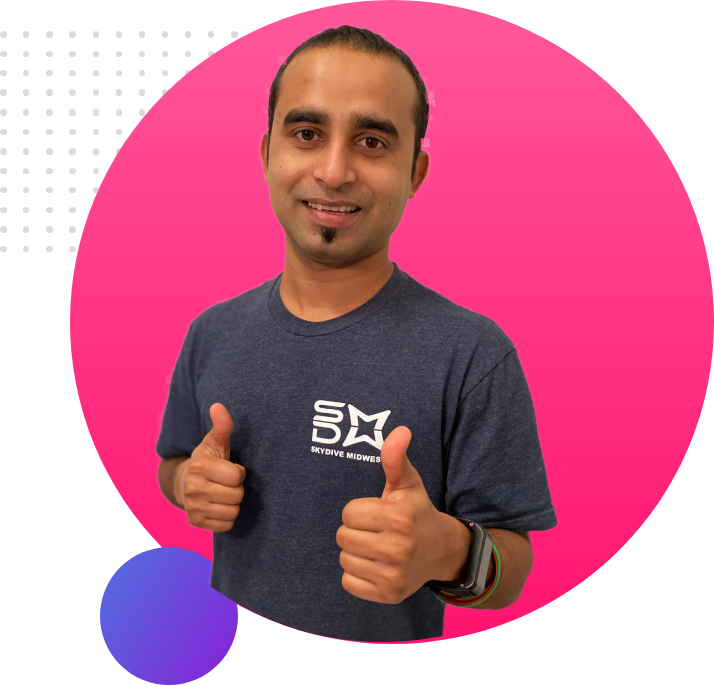
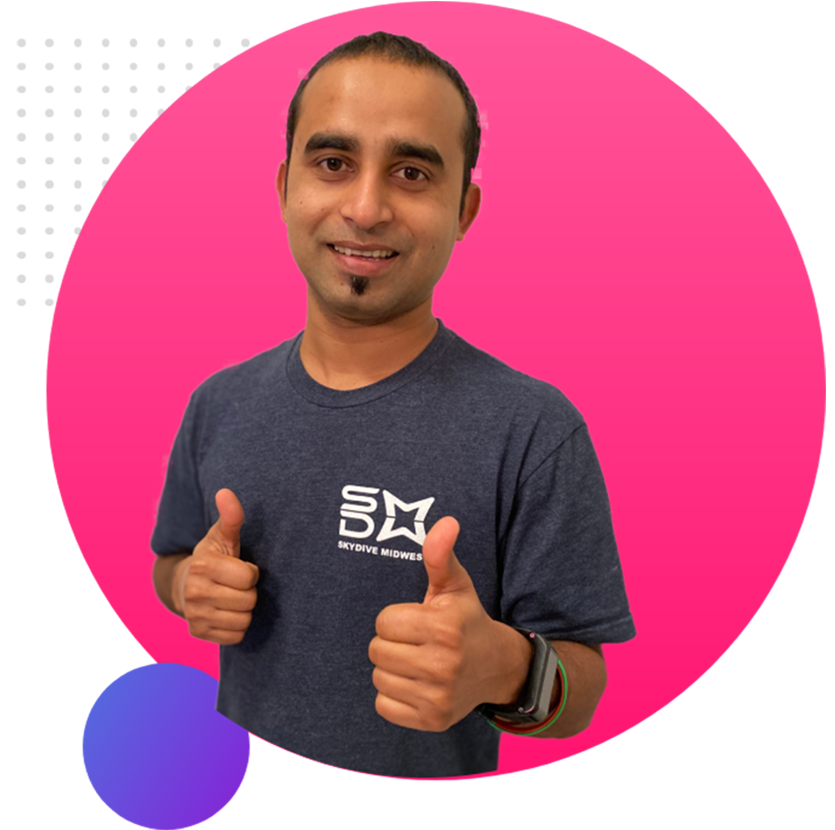
2nd section added

diff --git a/index.html b/index.html
@@ -13,7 +13,7 @@
 </head>
 
 <body>
-    <section>
+    <section class="welcome-banner">
         <div class="half-width">
             <h1>Welcome to</h1>
             <h1> <span class="name">Peter Parker</span> World</h1>
@@ -23,10 +23,24 @@
                 That's why I am learning and mastering web development. I will not stop until I become the Web
                 Development Hero.
             </p>
-            <a class="hire-me-buttom" target="_blank" href="https://www.linkedin.com/in/nhrusu/">Hire me</a>
+            <a class="link-buttom" target="_blank" href="https://www.linkedin.com/in/nhrusu/">Hire me</a>
         </div>
         <div class="half-width">
             <img src="images/najmul-rusu.png" alt="Najmul Rusu">
+        </div>
+    </section>
+    <section class="dream-big">
+        <div class="half-width">
+            <img src="images/najmul-rusu (2).png" alt="Najmul Rusu">
+        </div>
+        <div class="half-width">
+            <h1>Dream Big</h1>
+            <h3>Become a web developer</h3>
+            <p>I already learned the basic HTML and CSS. I can build any simple website. I can even teach my grandma how
+                to make simple website. My goal is to build 3 websites and learn advanced topics.</p>
+            <a class="link-buttom" target="_blank"
+                href="https://drive.google.com/file/d/1X_9hSEf39jW2jS4JlBlmCzR2bmR6XCPX/view?usp=sharing">Download
+                Resume</a>
         </div>
     </section>
 </body>

diff --git a/style.css b/style.css
@@ -1,15 +1,18 @@
 body{
     font-family: 'Raleway', sans-serif;
+    margin: 0;
 }
 h1{
     font-size: 50px;
 }
 section{
     display: flex;
+    margin-bottom: 150px;
 }
 .half-width{
     width: 50%;
     padding-left: 5%;
+    padding-right: 5%;
 }
 .half-width img{
     width: 75%;
@@ -17,11 +20,20 @@ section{
 .name{
     color: orange;
 }
-.hire-me-buttom{
+.link-buttom{
     text-decoration: none;
     color: white;
     width: 700;
     background-image: linear-gradient(orange, tomato);
     padding: 10px 40px;
     border-radius: 5%;
+}
+.welcome-banner{
+    background-image: url(images/top-banner.png);
+    background-repeat: no-repeat;
+}
+.dream-big{
+    background-image: url(images/dream-bg.png);
+    background-repeat: no-repeat;
+    background-position: right;
 }
